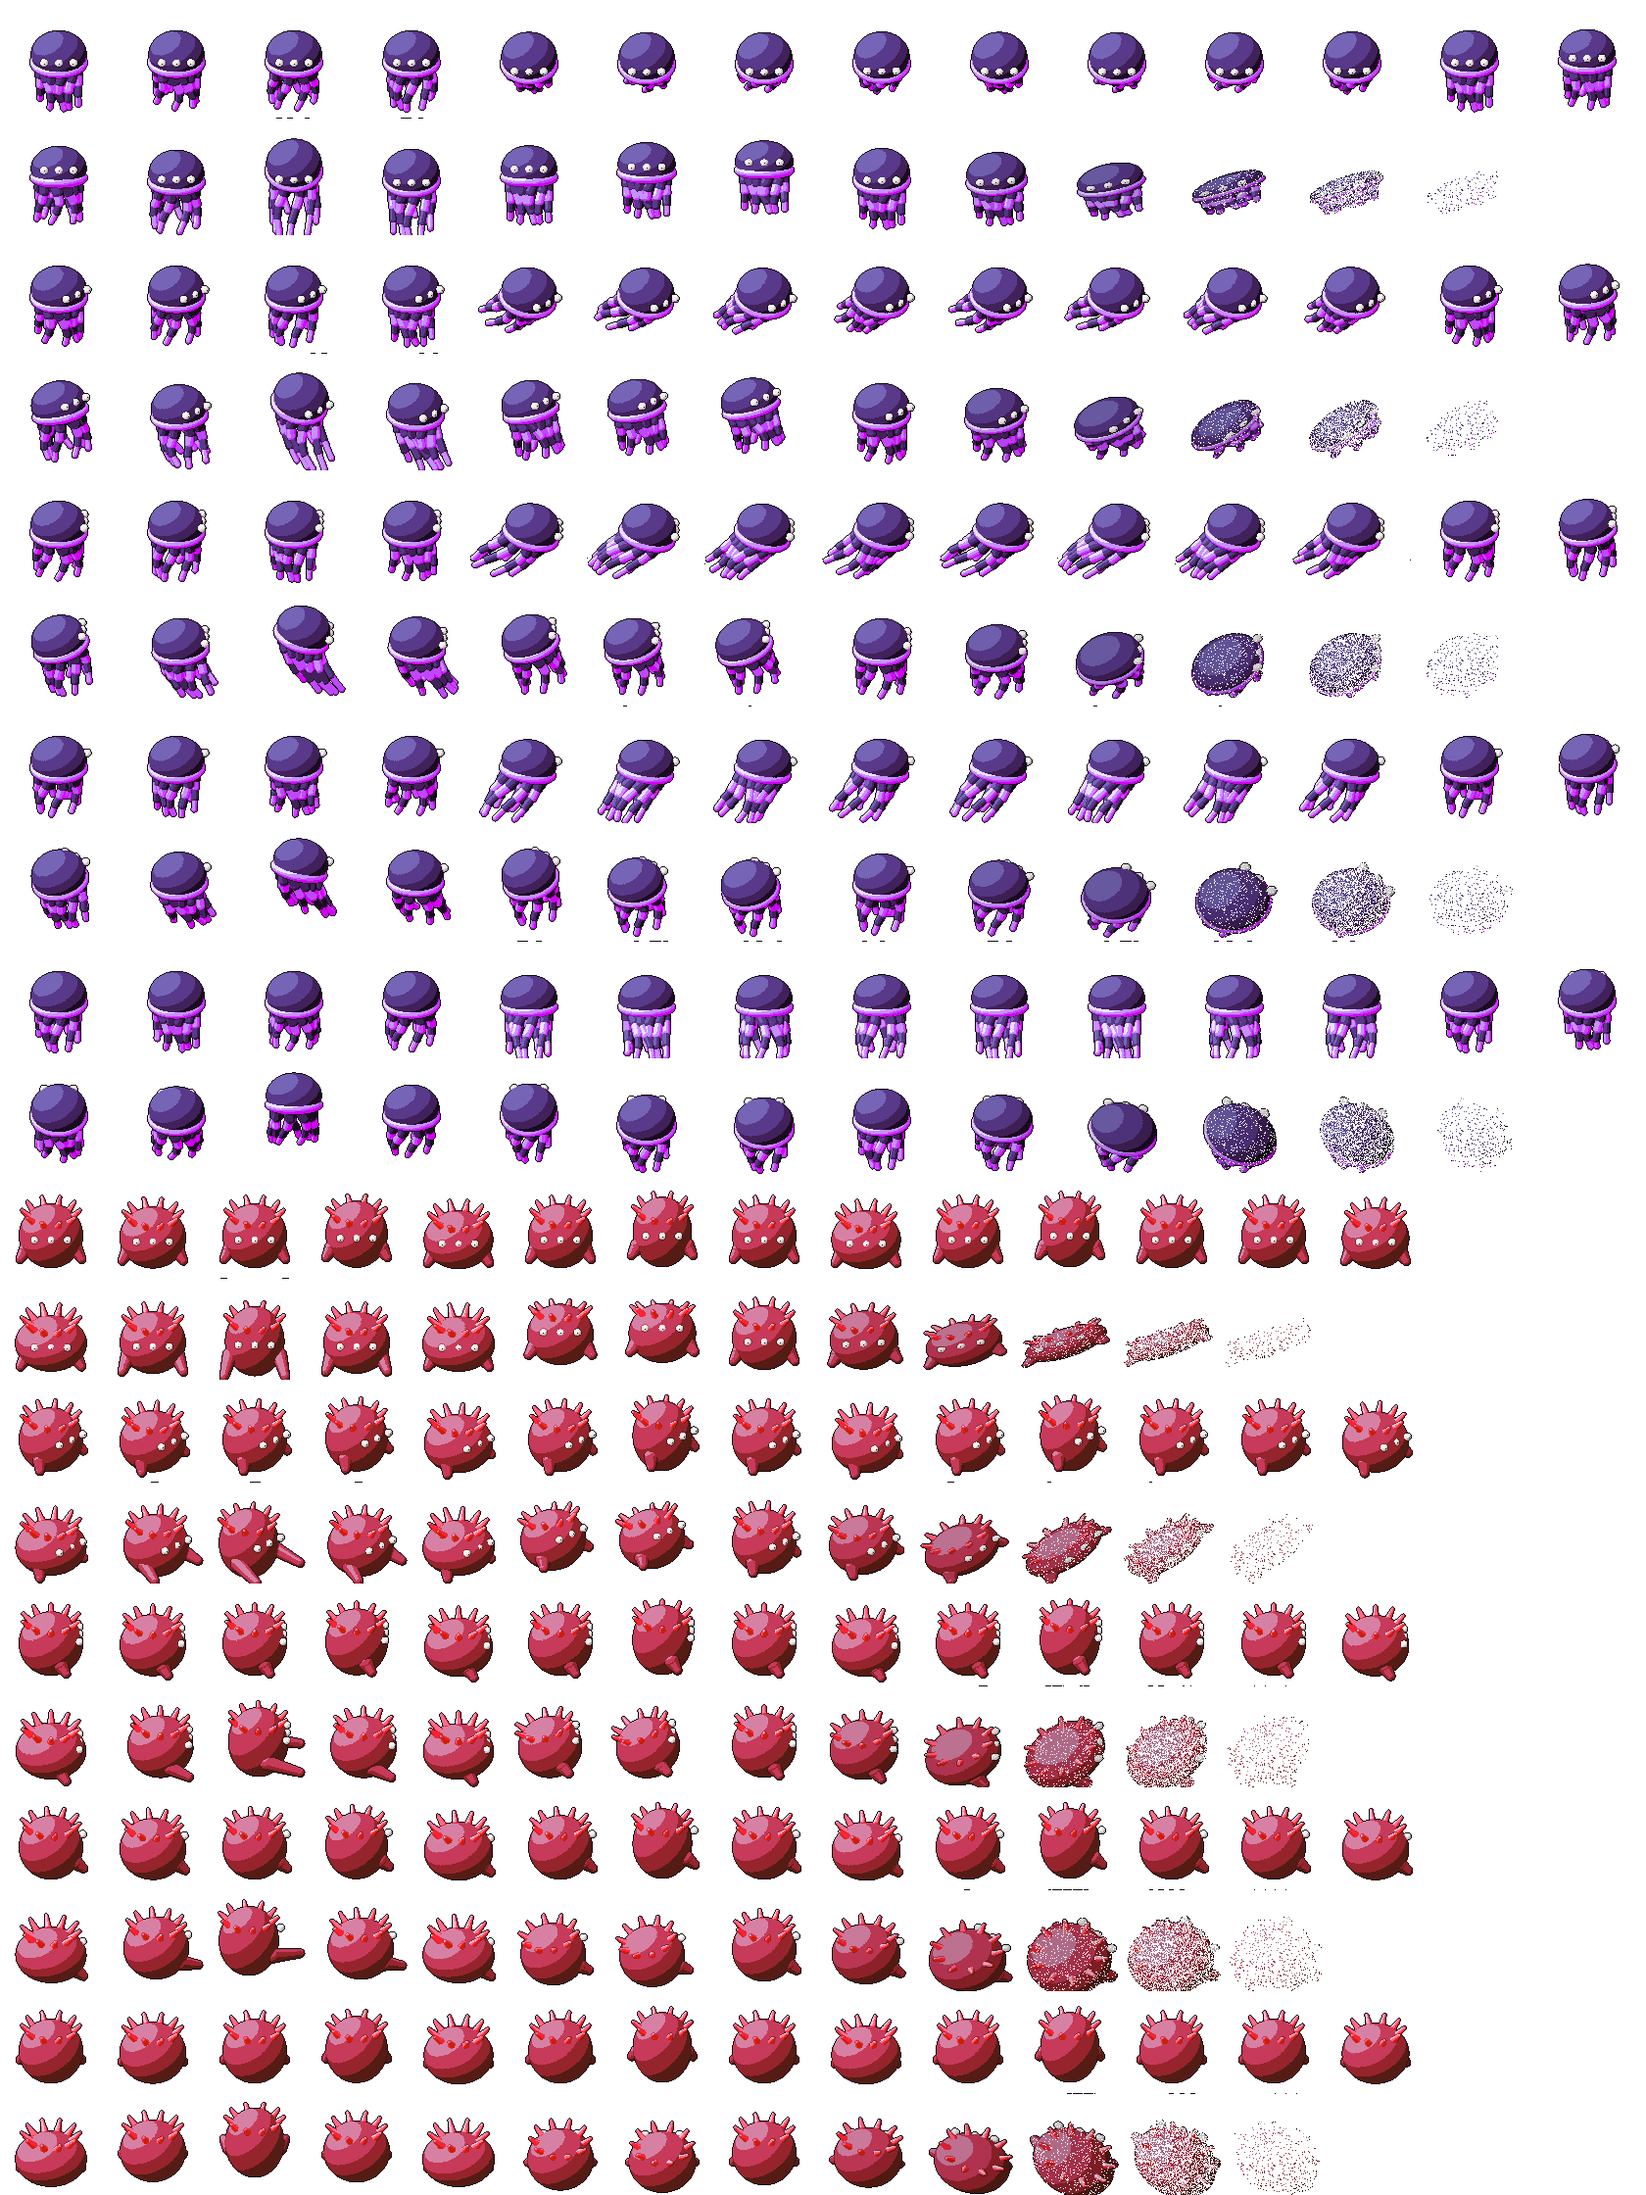
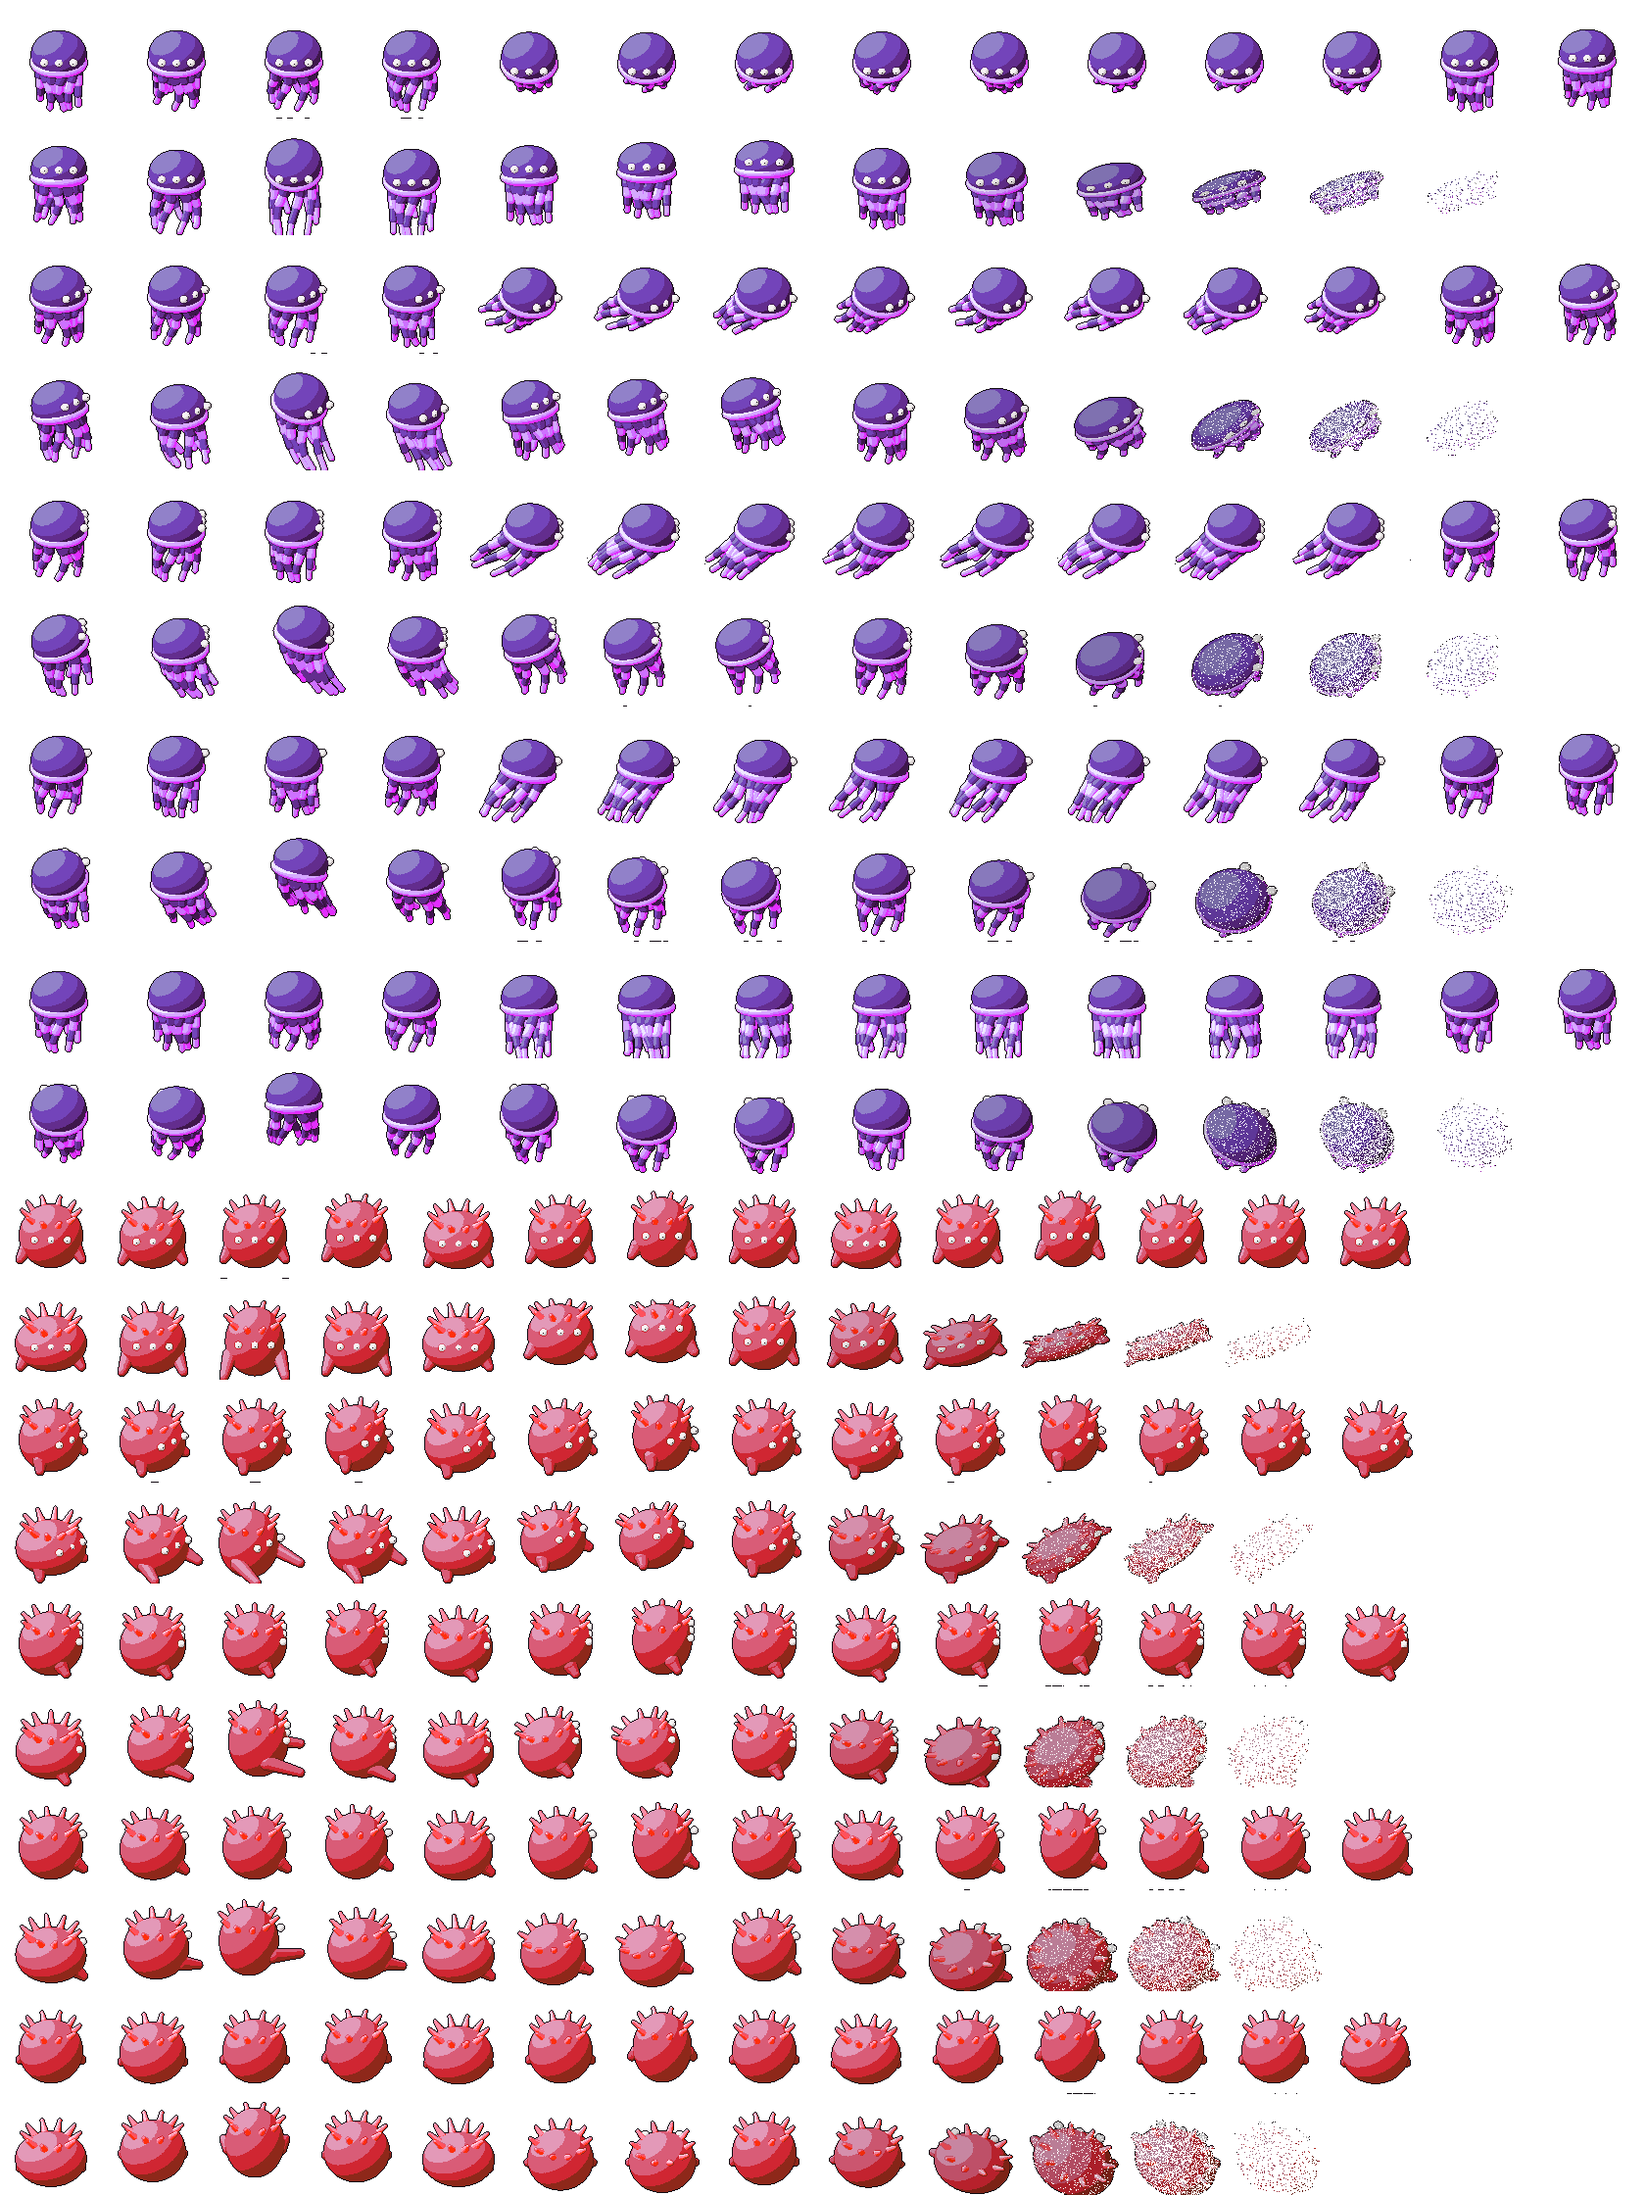
감염의 군주: 몬스터·보스·소환수 도트 시트를 밝은 색으로 재생성 (배치 동일)
Claude-Session: https://claude.ai/code/session_01UFhV39Q5HiHHCjx3qBq9Aw

diff --git a/sw.js b/sw.js
@@ -1,5 +1,5 @@
 /* BIO ARCADE 서비스 워커: 처음 접속할 때 전체 게임을 저장해 두고, 이후에는 오프라인에서도 실행. */
-const VERSION = 'biogame-hub-v61-il-hero2';
+const VERSION = 'biogame-hub-v62-il-mon2';
 const FONT_CACHE = 'bio-arcade-fonts';
 const CORE = [
   './', './index.html', './manifest.webmanifest',
